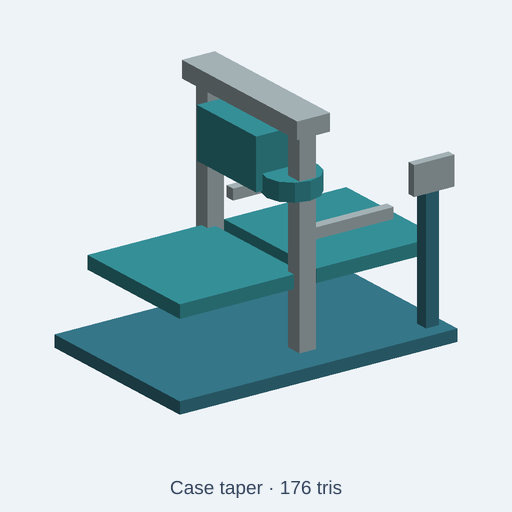
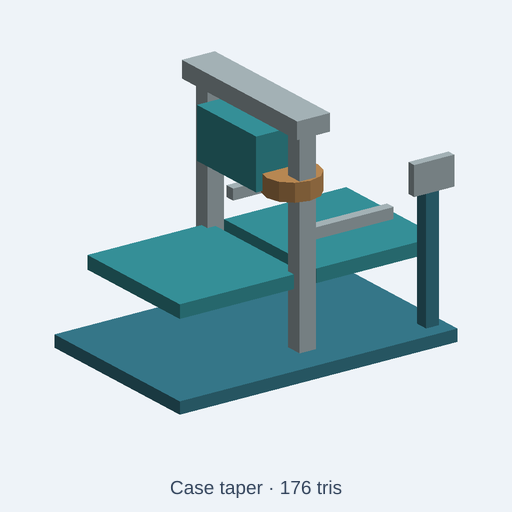
fix(catalog): render the case taper's tape roll as packing tape
The tape roll of the case taper is wound carton-sealing tape. Its part
name matched the `tape` finish rule, so it rendered as a teal food-grade
polymer disc. Add a packingTape colour control (#c39058, "Polypropylene
packing tape") and route the roll to it; sanitaryLine and legacyPlant set
it. The tape head keeps its existing finish.

Geometry, part names and the triangle count (176 / 2,200) are unchanged.
The new GLB colour test fails on the old source and passes after the fix.

Changed region(s): [[0.5, 0.3125, 0.6562, 0.4062]]

diff --git a/tests/integration/catalog/caseTaperTapeRollMaterial.test.ts b/tests/integration/catalog/caseTaperTapeRollMaterial.test.ts
@@ -1,0 +1,59 @@
+// SPDX-License-Identifier: MIT
+// Copyright (c) 2026 Andrii Shylenko and kernelCAD contributors
+
+import { resolve } from 'node:path';
+import { NodeIO } from '@gltf-transform/core';
+import { beforeAll, describe, expect, it } from 'vitest';
+import { buildCatalogAssetWithGlb } from '../../../src/agent/catalog/buildCatalog';
+import { initOcct } from '../../../src/kernel/backends/occt/occtBackend';
+
+const repoRoot = resolve(import.meta.dirname, '../../..');
+const source = 'catalog/kits/beverage-bottling-line/case-taper.kcad.ts';
+
+beforeAll(async () => {
+  await initOcct();
+}, 120_000);
+
+describe('beverage-bottling-line/case-taper materials', () => {
+  it('renders the tape roll as packing tape, not food-grade polymer', async () => {
+    const { asset, glb } = await buildCatalogAssetWithGlb(repoRoot, source);
+
+    expect(asset.stats.triangles).toBeLessThanOrEqual(asset.triangleBudget);
+    expect(asset.params.filter((param) => param.type === 'color').map((param) => param.name)).toEqual([
+      'stainlessSteel', 'powderCoat', 'foodPolymer', 'packingTape',
+    ]);
+    expect(Object.keys(asset.presets)).toEqual(['sanitaryLine', 'legacyPlant']);
+
+    const document = await new NodeIO().readBinary(glb);
+    const nodes = document.getRoot().listNodes();
+    const colorsFor = (name: string) => {
+      const node = nodes.find((candidate) => candidate.getName() === name);
+      return node?.getMesh()?.listPrimitives().flatMap((primitive) => {
+        const vertexColors = primitive.getAttribute('COLOR_0');
+        if (vertexColors !== null) {
+          return Array.from({ length: vertexColors.getCount() }, (_, index) => {
+            const color = vertexColors.getElement(index, []);
+            return color.slice(0, 3).map((channel) =>
+              channel <= 0.0031308 ? 12.92 * channel : 1.055 * channel ** (1 / 2.4) - 0.055,
+            );
+          });
+        }
+        const material = primitive.getMaterial();
+        return material === null ? [] : [material.getBaseColorFactor().slice(0, 3)];
+      }) ?? [];
+    };
+    const matches = (hex: string) => {
+      const expected = [1, 3, 5].map((shift) => parseInt(hex.slice(shift, shift + 2), 16) / 255);
+      return (color: number[]) => expected.every((channel, index) =>
+        Math.abs(channel - color[index]!) < 0.015,
+      );
+    };
+
+    const roll = colorsFor('tape-roll');
+    expect(roll.length).toBeGreaterThan(0);
+    expect(roll.every(matches('#c39058')), 'tape-roll should be packing tape').toBe(true);
+    const head = colorsFor('tape-head');
+    expect(head.length).toBeGreaterThan(0);
+    expect(head.every(matches('#3999a1')), 'tape-head should keep its polymer finish').toBe(true);
+  }, 120_000);
+});

diff --git a/catalog/kits/beverage-bottling-line/case-taper.kcad.ts b/catalog/kits/beverage-bottling-line/case-taper.kcad.ts
@@ -5,7 +5,7 @@ meta({
   name: "case-taper",
   license: 'CC0-1.0',
   title: "Case taper",
-  description: "Adjustable side-belt carton taper with upper tape head and centering rails. Knobs: overall scale and color controls for stainless steel, powder-coated steel, and food-grade polymer.",
+  description: "Adjustable side-belt carton taper with upper tape head and centering rails. Knobs: overall scale and color controls for stainless steel, powder-coated steel, food-grade polymer, and packing tape.",
   tags: ['beverage bottling', 'packaging line', 'food manufacturing', 'low poly', 'CC0'],
   kit: 'beverage-bottling-line',
   category: 'structure',
@@ -18,17 +18,20 @@ const scale = param('scale', 1, { label: 'Overall scale', min: 0.65, max: 1.3, s
 const stainlessSteel = param('stainlessSteel', '#aebdc1', { label: 'Stainless steel' });
 const powderCoat = param('powderCoat', '#397e91', { label: 'Powder-coated steel' });
 const foodPolymer = param('foodPolymer', '#3999a1', { label: 'Food-grade polymer' });
+const packingTape = param('packingTape', '#c39058', { label: 'Polypropylene packing tape' });
 
 presets({
   sanitaryLine: {
     stainlessSteel: '#d2dfe1',
     powderCoat: '#4b95a4',
     foodPolymer: '#2c828c',
+    packingTape: '#cf9e66',
   },
   legacyPlant: {
     stainlessSteel: '#858f91',
     powderCoat: '#315b70',
     foodPolymer: '#286c75',
+    packingTape: '#a87a48',
   },
 });
 const boxPart = (x:number,y:number,z:number,w:number,d:number,h:number) => box(w,d,h,true).translate(x,y,z+h/2).scale(scale);
@@ -37,6 +40,8 @@ const cylinderPart = (x:number,y:number,z:number,h:number,r:number,n=10) => cyli
 const p = assembly("case-taper");
 const finishPart = (name: string, shape: ReturnType<typeof boxPart>) => {
   const component = name.toLowerCase();
+  // The tape roll is wound tan polypropylene carton-sealing tape, not a polymer machine part.
+  if (/roll$/i.test(component)) return shape.color(packingTape);
   if (/belt|guide|film|web|label|pad|seal|grip|cap|bottle|liner|tray|hose|cleat|divider|wheel|wrap|tape|suction|sleeve/i.test(component)) return shape.color(foodPolymer);
   if (/base|leg|foot|frame|support|stand|control|housing|cabinet|motor|drive|beam|panel|hood|skid|mount|platform|guard|rail|post|lift|jacket/i.test(component)) return shape.color(powderCoat);
   return shape.color(stainlessSteel);
